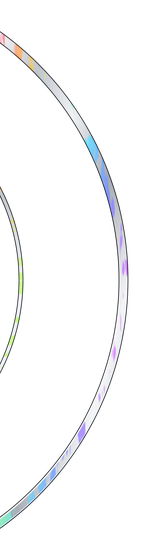
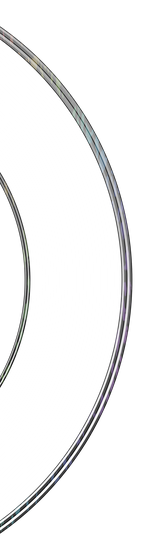
v1.1.0: faceted gem crystals, glass wheel band, closer match to reference
- 4-layer gem assets (gem/bevel/hl/rim) with per-facet lighting for tiles, tabs, tags, checkboxes, knobs
- wheel tiles resized and spaced like the video, active tile grows, thick glass ring band
- section header strip, steel panel rims, thicker chrome window frame
- narrower italic logo, BuilderSans font, picker centred under the colour circle
- example values matched to the reference video

Claude-Session: https://claude.ai/code/session_019E8CrSttzmJTXL8Yq4inpy

Changed region(s): [[0.0, 0.0304, 0.8438, 0.9714], [0.0, 0.3036, 0.2188, 0.6982]]

diff --git a/README.md b/README.md
@@ -12,7 +12,7 @@ loadstring(game:HttpGet("https://raw.githubusercontent.com/n1xvare/STARA-UI/main
 
 **RightShift** — скрыть или показать. Круг в шапке открывает выбор цвета (HEX и RGB), луна/солнце переключает тему.
 
-Кристальные рамки, логотип и иконки — готовые PNG в `assets/`. Они отрендерены в Chromium через SVG-фильтры: specular lighting, turbulence и радужная дисперсия. При первом запуске картинки скачиваются в `workspace/STRATA/`.
+Все кристаллы (плитки колеса, вкладки, теги секций, чекбоксы, ползунки) — огранённые камни из 4 слоёв PNG в `assets/`: `*_gem` (грани в оттенках серого, красятся в акцент), `*_bevel` (стеклянные грани тёмного состояния), `*_hl` (блики) и `*_rim` (хромовая кромка с радужной дисперсией). Каждая грань освещена отдельно светом сверху-слева. Картинки отрендерены в Chromium из SVG и при первом запуске скачиваются в `workspace/STRATA/v2/`.
 
 ## API
 
@@ -21,7 +21,7 @@ local STRATA = loadstring(game:HttpGet("https://raw.githubusercontent.com/n1xvar
 local Window = STRATA:CreateWindow({ ToggleKey = Enum.KeyCode.RightShift, Mode = "Glass", Accent = nil })
 local Page = Window:Page({ Title = "Combat", Icon = "crosshair" })   -- плитка на колесе (до 5)
 local Tab  = Page:Tab({ Title = "Targets", Icon = "crosshair" })     -- вкладка в шапке (до 3 на страницу)
-local S    = Tab:Section({ Title = "Targeting", Side = "Left" })     -- Left / Right колонка
+local S    = Tab:Section({ Title = "Targeting", Side = "Left" })     -- Left / Right колонка, Caps = false — без капса
 
 S:Toggle({ Title, Default, Flag, Callback })
 S:Slider({ Title, Min, Max, Default, Increment, Suffix, Flag, Callback })
